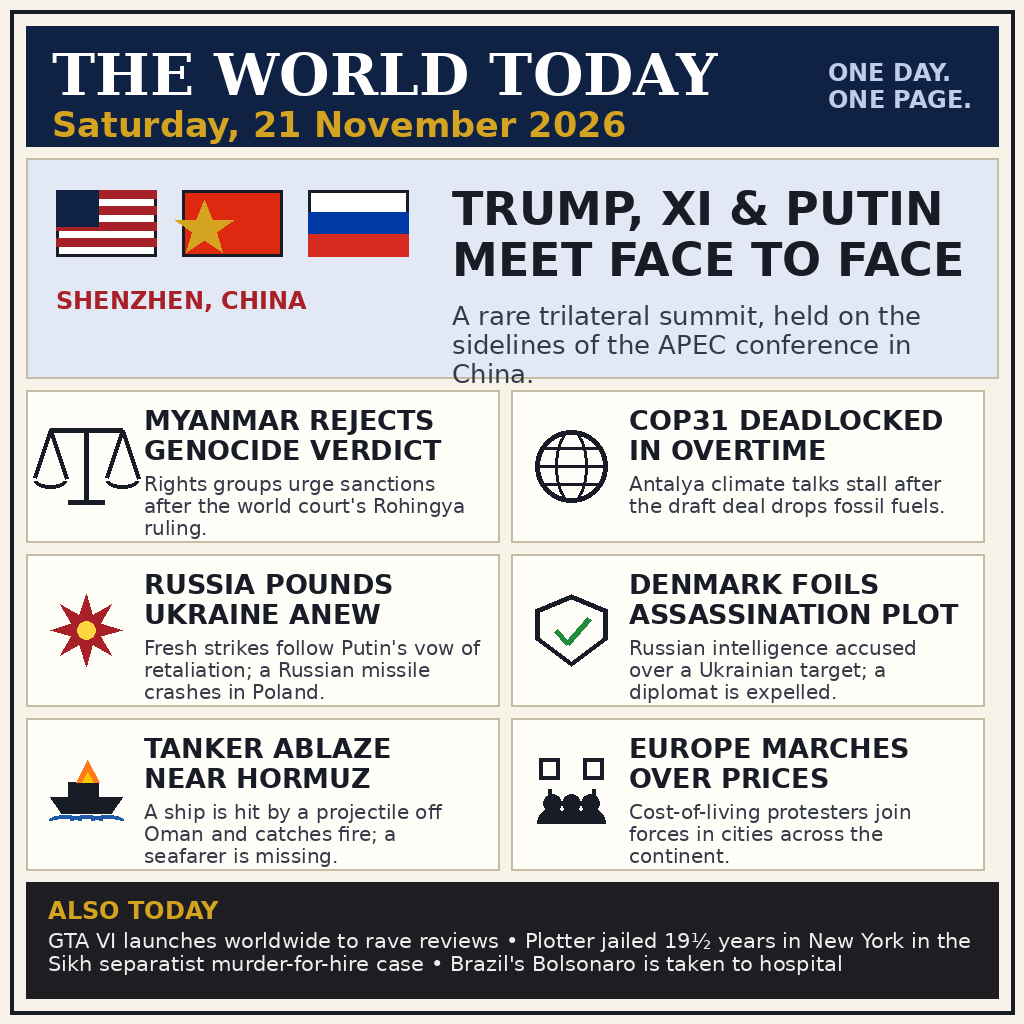
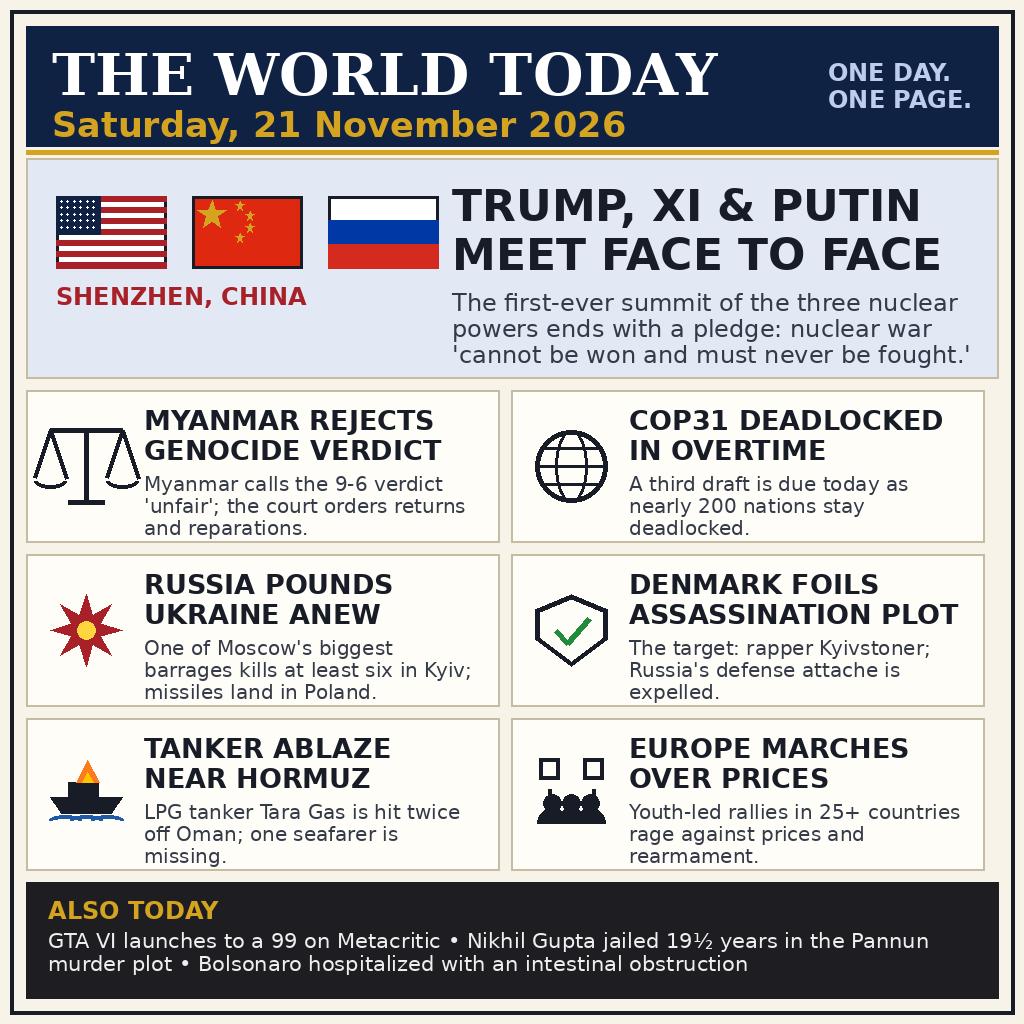
Fix lead overflow, sharpen flags, verify + strengthen all 10 stories
- Lead body no longer overflows its panel: headline 44px, body 24px,
  measured 3 lines ending inside the panel; script now asserts every
  text block stays inside its panel (no clipping possible).
- Flags redrawn properly: US 13 stripes + star field, China canton star
  + four small stars (v1 star poked outside the flag), Russia unchanged.
- Copy strengthened with facts verified 21 Nov 2026: first-ever summit
  + nuclear-war pledge; ICJ 9-6 verdict, returns and reparations; COP31
  third draft due today; Kyiv toll + missiles in Poland; Kyivstoner
  named; Tara Gas named; 25+ countries; GTA VI Metacritic 99; Gupta
  named; Bolsonaro intestinal obstruction.
- Gold rule under masthead; flags enlarged to fill the lead panel.

diff --git a/generate_image.py b/generate_image.py
@@ -1,27 +1,43 @@
 #!/usr/bin/env python3
 """Draw entry.png: one front page summing up Saturday 21 November 2026.
 
-Stories (all reported on 21 November 2026 by wire services and that day's
-morning papers):
-  * Trump, Xi and Putin hold a trilateral summit in Shenzhen, on the
-    sidelines of the APEC conference (The Hindu morning digest, 21 Nov).
-  * Myanmar rejects the ICJ genocide verdict on the Rohingya as rights
-    groups urge sanctions (AP/AFP, 21 Nov).
+Every story below was verified against reports published on 20-21 November
+2026 (the Saturday morning papers carry Friday's news):
+  * Trump, Xi and Putin hold the first-ever trilateral summit in Shenzhen,
+    on the sidelines of the APEC conference; the joint statement says a
+    nuclear war "cannot be won and must never be fought" (Al Jazeera, The
+    Times/WSJ, Nikkei, 19-20 Nov).
+  * Myanmar rejects the ICJ genocide verdict on the Rohingya as "unfair":
+    the court ruled 9-6 on 19 Nov that Myanmar committed genocide, and
+    ordered returns and reparations (AP, Reuters, Al Jazeera, 20 Nov).
   * COP31 in Antalya runs into overtime, deadlocked after the draft deal
-    dropped fossil fuels (AFP, 21 Nov).
-  * Russia pounds Ukraine anew after Putin vowed retaliation; a Russian
-    missile crashed in Poland, which Warsaw calls a provocation (AP, 21 Nov).
-  * Denmark accuses Russian intelligence of a plot to kill a Ukrainian on
-    its soil and expels a Russian diplomat (AP, 21 Nov).
-  * A tanker/LPG ship is hit by a projectile near the Strait of Hormuz off
-    Oman and catches fire; a seafarer is missing (UKMTO reports, 21 Nov).
-  * Cost-of-living protests join forces across Europe (AFP, 21 Nov).
-  * Also: GTA VI launches worldwide; Nikhil Gupta jailed 19.5 years in New
-    York in the Sikh separatist murder-for-hire plot; Bolsonaro in hospital.
+    dropped fossil fuels; a third draft is due Saturday (AFP via Al
+    Jazeera / Straits Times, 20-21 Nov).
+  * Russia pounds Ukraine anew after Putin vowed retaliation for the
+    Kerch bridge strikes: 80+ missiles and 400+ drones overnight, at
+    least six killed in Kyiv; Russian missiles land in Poland, which
+    Warsaw calls a deliberate provocation (AP via Daily Star, ISW, 21 Nov).
+  * Denmark accuses Russian intelligence of a plot to kill Ukrainian-
+    American rapper Kyivstoner at a Copenhagen concert and expels
+    Russia's defence attache (Al Jazeera, Reuters, WSJ, 20 Nov).
+  * LPG tanker Tara Gas is hit twice near the Strait of Hormuz off Oman
+    (16-17 Nov) and catches fire; one seafarer is missing, 24 rescued
+    (UKMTO, Safety4SEA, gCaptain, Gulf News, 17-20 Nov).
+  * Youth-led cost-of-living protests rally in 25+ European countries
+    against prices, rearmament and cuts (AFP via Daily Star, 21 Nov).
+  * Also: GTA VI launches 19 Nov to a 99 on Metacritic, with perfect
+    10s from IGN, GameSpot and Game Informer; Nikhil Gupta jailed 235
+    months (19 1/2 years) in New York in the Pannun murder-for-hire
+    plot; Bolsonaro hospitalised in Brasilia with a near-complete
+    intestinal obstruction.
 
 The drawing is fully deterministic: fixed geometry, fixed colours, no clock,
-no randomness, so every run writes identical bytes.
+no randomness, so every run writes identical bytes. Text blocks are measured
+with the real fonts and asserted inside their panels, so no text can be
+clipped or overflow (the 21 Nov v1 lead body ran past its panel edge).
 """
+
+import math
 
 from PIL import Image, ImageDraw, ImageFont
 
@@ -59,12 +75,23 @@ def wrap(draw, text, fnt, width):
 
 
 def text_block(draw, xy, text, fnt, fill, width, leading=1.12):
+    """Draw a wrapped block; return the y just below its last line."""
     x, y = xy
     size = fnt.size
     for line in wrap(draw, text, fnt, width):
         draw.text((x, y), line, font=fnt, fill=fill)
         y += int(size * leading)
     return y
+
+
+def star_points(cx, cy, r_out, r_in, rotation=-90):
+    """Five-pointed star polygon, one point up by default."""
+    pts = []
+    for i in range(10):
+        r = r_out if i % 2 == 0 else r_in
+        a = math.radians(rotation + i * 36)
+        pts.append((cx + r * math.cos(a), cy + r * math.sin(a)))
+    return pts
 
 
 # ---------------------------------------------------------------- icons
@@ -89,7 +116,6 @@ def icon_globe(d, cx, cy, s, colour=INK):
 
 
 def icon_burst(d, cx, cy, s, colour=RED):
-    import math
     pts = []
     for i in range(16):
         r = s if i % 2 == 0 else int(s * 0.45)
@@ -134,23 +160,31 @@ def icon_crowd(d, cx, cy, s, colour=INK):
 
 
 def icon_flags(d, x, y, s):
-    # United States: stripes and a blue canton.
-    d.rectangle([x, y, x + s, y + int(s * 0.66)], fill=(255, 255, 255), outline=INK, width=3)
-    for i in range(4):
-        yy = y + i * int(s * 0.165)
-        d.rectangle([x, yy, x + s, yy + int(s * 0.082)], fill=RED)
-    d.rectangle([x, y, x + int(s * 0.42), y + int(s * 0.36)], fill=NAVY)
-    # China: red field, gold star.
+    # United States: 13 stripes and a blue canton with a field of stars.
+    h = int(s * 0.66)
+    stripe = h / 13
+    d.rectangle([x, y, x + s, y + h], fill=(255, 255, 255), outline=INK, width=3)
+    for i in range(0, 13, 2):
+        yy = y + i * stripe
+        d.rectangle([x, yy, x + s, yy + stripe], fill=RED)
+    canton_w, canton_h = int(s * 0.4), int(7 * stripe)
+    d.rectangle([x, y, x + canton_w, y + canton_h], fill=NAVY)
+    for row in range(5):
+        for col in range(6):
+            sx = x + 5 + col * 6.5
+            sy = y + 5 + row * 6.5
+            d.ellipse([sx - 1, sy - 1, sx + 1, sy + 1], fill=(255, 255, 255))
+    # China: red field, one large gold star in the canton, four small stars.
     x2 = x + s + 26
-    d.rectangle([x2, y, x2 + s, y + int(s * 0.66)], fill=(222, 41, 16), outline=INK, width=3)
-    d.polygon([(x2 + 22, y + 10), (x2 + 30, y + 30), (x2 + 51, y + 30), (x2 + 34, y + 42),
-               (x2 + 40, y + 62), (x2 + 22, y + 50), (x2 + 4, y + 62), (x2 + 10, y + 42),
-               (x2 - 7, y + 30), (x2 + 14, y + 30)], fill=GOLD)
+    d.rectangle([x2, y, x2 + s, y + h], fill=(222, 41, 16), outline=INK, width=3)
+    d.polygon(star_points(x2 + 20, y + 19, 15, 6), fill=GOLD)
+    for sx, sy in ((48, 10), (58, 20), (58, 32), (48, 42)):
+        d.polygon(star_points(x2 + sx, y + sy, 5, 2), fill=GOLD)
     # Russia: white, blue, red bands.
     x3 = x2 + s + 26
-    d.rectangle([x3, y, x3 + s, y + int(s * 0.66)], fill=(255, 255, 255), outline=INK, width=3)
-    d.rectangle([x3, y + int(s * 0.22), x3 + s, y + int(s * 0.44)], fill=(0, 57, 166))
-    d.rectangle([x3, y + int(s * 0.44), x3 + s, y + int(s * 0.66)], fill=(213, 43, 30))
+    d.rectangle([x3, y, x3 + s, y + h], fill=(255, 255, 255), outline=INK, width=3)
+    d.rectangle([x3, y + int(h / 3), x3 + s, y + int(2 * h / 3)], fill=(0, 57, 166))
+    d.rectangle([x3, y + int(2 * h / 3), x3 + s, y + h], fill=(213, 43, 30))
 
 
 # ---------------------------------------------------------------- page
@@ -163,36 +197,41 @@ d.rectangle([26, 26, W - 26, 146], fill=NAVY)
 d.text((52, 40), "THE WORLD TODAY", font=font(SERIF_BOLD, 58), fill=(255, 255, 255))
 d.text((52, 104), "Saturday, 21 November 2026", font=font(SANS_BOLD, 35), fill=GOLD)
 d.text((W - 52, 58), "ONE DAY.\nONE PAGE.", font=font(SANS_BOLD, 24), fill=(190, 205, 235), anchor="ra")
+d.rectangle([26, 150, W - 26, 154], fill=GOLD)
 
 # Lead story: the Shenzhen summit
-d.rectangle([26, 158, W - 26, 378], fill=LEAD_BG, outline=PANEL_LINE, width=2)
-icon_flags(d, 56, 190, 100)
-d.text((56, 286), "SHENZHEN, CHINA", font=font(SANS_BOLD, 24), fill=RED)
-text_block(d, (452, 182), "TRUMP, XI & PUTIN MEET FACE TO FACE",
-           font(SANS_BOLD, 46), INK, W - 452 - 48)
-text_block(d, (452, 300), "A rare trilateral summit, held on the sidelines "
-                          "of the APEC conference in China.",
-           font(SANS, 26), (52, 58, 72), W - 452 - 48)
+LEAD_TOP, LEAD_BOTTOM = 158, 378
+d.rectangle([26, LEAD_TOP, W - 26, LEAD_BOTTOM], fill=LEAD_BG, outline=PANEL_LINE, width=2)
+icon_flags(d, 56, 196, 110)
+d.text((56, 282), "SHENZHEN, CHINA", font=font(SANS_BOLD, 24), fill=RED)
+head_end = text_block(d, (452, 180), "TRUMP, XI & PUTIN MEET FACE TO FACE",
+                      font(SANS_BOLD, 44), INK, W - 452 - 48)
+body_end = text_block(d, (452, 288),
+                      "The first-ever summit of the three nuclear powers ends with a pledge: "
+                      "nuclear war 'cannot be won and must never be fought.'",
+                      font(SANS, 24), (52, 58, 72), W - 452 - 48)
+assert head_end <= 284, f"lead headline overflows: ends {head_end}"
+assert body_end <= LEAD_BOTTOM - 4, f"lead body overflows: ends {body_end}"
 
 # Six panels, two columns by three rows
 panels = [
     ("MYANMAR REJECTS GENOCIDE VERDICT",
-     "Rights groups urge sanctions after the world court's Rohingya ruling.",
+     "Myanmar calls the 9-6 verdict 'unfair'; the court orders returns and reparations.",
      icon_scales),
     ("COP31 DEADLOCKED IN OVERTIME",
-     "Antalya climate talks stall after the draft deal drops fossil fuels.",
+     "A third draft is due today as nearly 200 nations stay deadlocked.",
      icon_globe),
     ("RUSSIA POUNDS UKRAINE ANEW",
-     "Fresh strikes follow Putin's vow of retaliation; a Russian missile crashes in Poland.",
+     "One of Moscow's biggest barrages kills at least six in Kyiv; missiles land in Poland.",
      icon_burst),
     ("DENMARK FOILS ASSASSINATION PLOT",
-     "Russian intelligence accused over a Ukrainian target; a diplomat is expelled.",
+     "The target: rapper Kyivstoner; Russia's defense attache is expelled.",
      icon_shield),
     ("TANKER ABLAZE NEAR HORMUZ",
-     "A ship is hit by a projectile off Oman and catches fire; a seafarer is missing.",
+     "LPG tanker Tara Gas is hit twice off Oman; one seafarer is missing.",
      icon_ship),
     ("EUROPE MARCHES OVER PRICES",
-     "Cost-of-living protesters join forces in cities across the continent.",
+     "Youth-led rallies in 25+ countries rage against prices and rearmament.",
      icon_crowd),
 ]
 PX, PY, PW, PH, GAP = 26, 390, 473, 152, 12
@@ -201,18 +240,21 @@ for i, (headline, sub, icon) in enumerate(panels):
     x, y = PX + col * (PW + GAP), PY + row * (PH + GAP)
     d.rectangle([x, y, x + PW, y + PH], fill=PANEL, outline=PANEL_LINE, width=2)
     icon(d, x + 60, y + PH // 2, 36)
-    text_block(d, (x + 118, y + 14), headline, font(SANS_BOLD, 27), INK, PW - 136)
-    text_block(d, (x + 118, y + 82), sub, font(SANS, 20), (52, 58, 72), PW - 136)
+    h_end = text_block(d, (x + 118, y + 14), headline, font(SANS_BOLD, 27), INK, PW - 136)
+    s_end = text_block(d, (x + 118, y + 82), sub, font(SANS, 20), (52, 58, 72), PW - 136)
+    assert h_end <= y + 78, f"panel {i} headline overflows: ends {h_end}"
+    assert s_end <= y + PH - 4, f"panel {i} sub overflows: ends {s_end}"
 
 # Bottom ticker
 TY = PY + 3 * (PH + GAP) - GAP + 12
 d.rectangle([26, TY, W - 26, H - 26], fill=(30, 30, 34))
 d.text((48, TY + 14), "ALSO TODAY", font=font(SANS_BOLD, 24), fill=GOLD)
-text_block(d, (48, TY + 46),
-           "GTA VI launches worldwide to rave reviews  •  Plotter jailed 19½ years in "
-           "New York in the Sikh separatist murder-for-hire case  •  Brazil's Bolsonaro "
-           "is taken to hospital",
-           font(SANS, 21), (238, 238, 238), W - 96)
+t_end = text_block(d, (48, TY + 46),
+                   "GTA VI launches to a 99 on Metacritic  \u2022  Nikhil Gupta jailed 19\u00bd years "
+                   "in the Pannun murder plot  \u2022  Bolsonaro hospitalized with an intestinal "
+                   "obstruction",
+                   font(SANS, 21), (238, 238, 238), W - 96)
+assert t_end <= H - 30, f"ticker overflows: ends {t_end}"
 
 img.save("entry.png", optimize=True)
 print("entry.png written")
